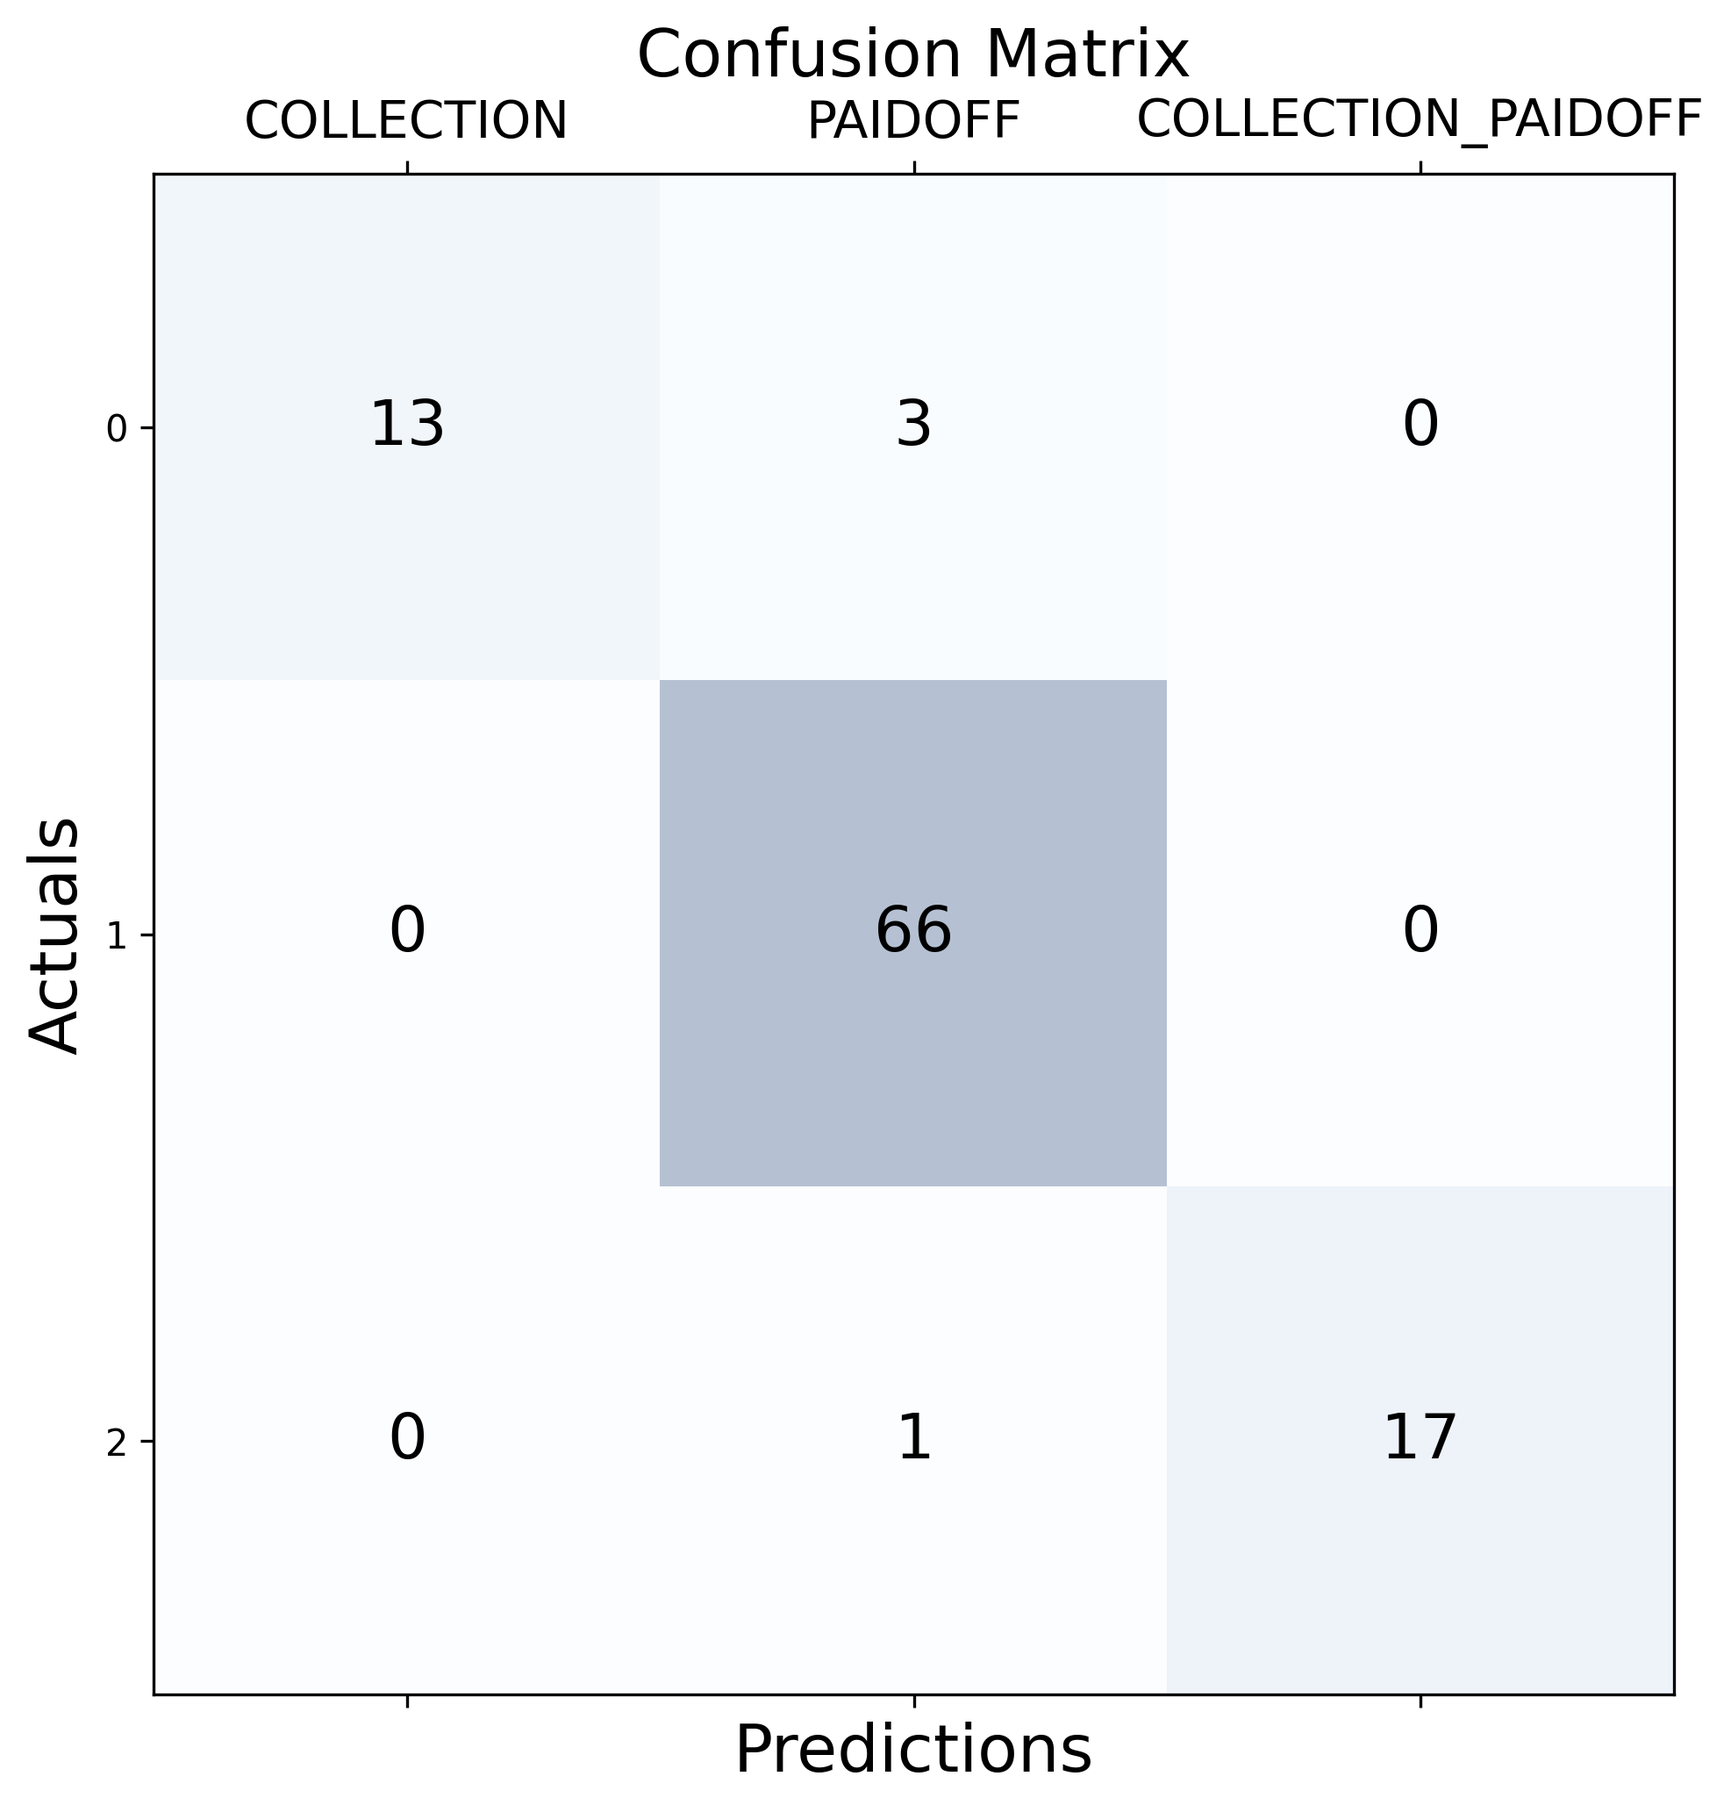
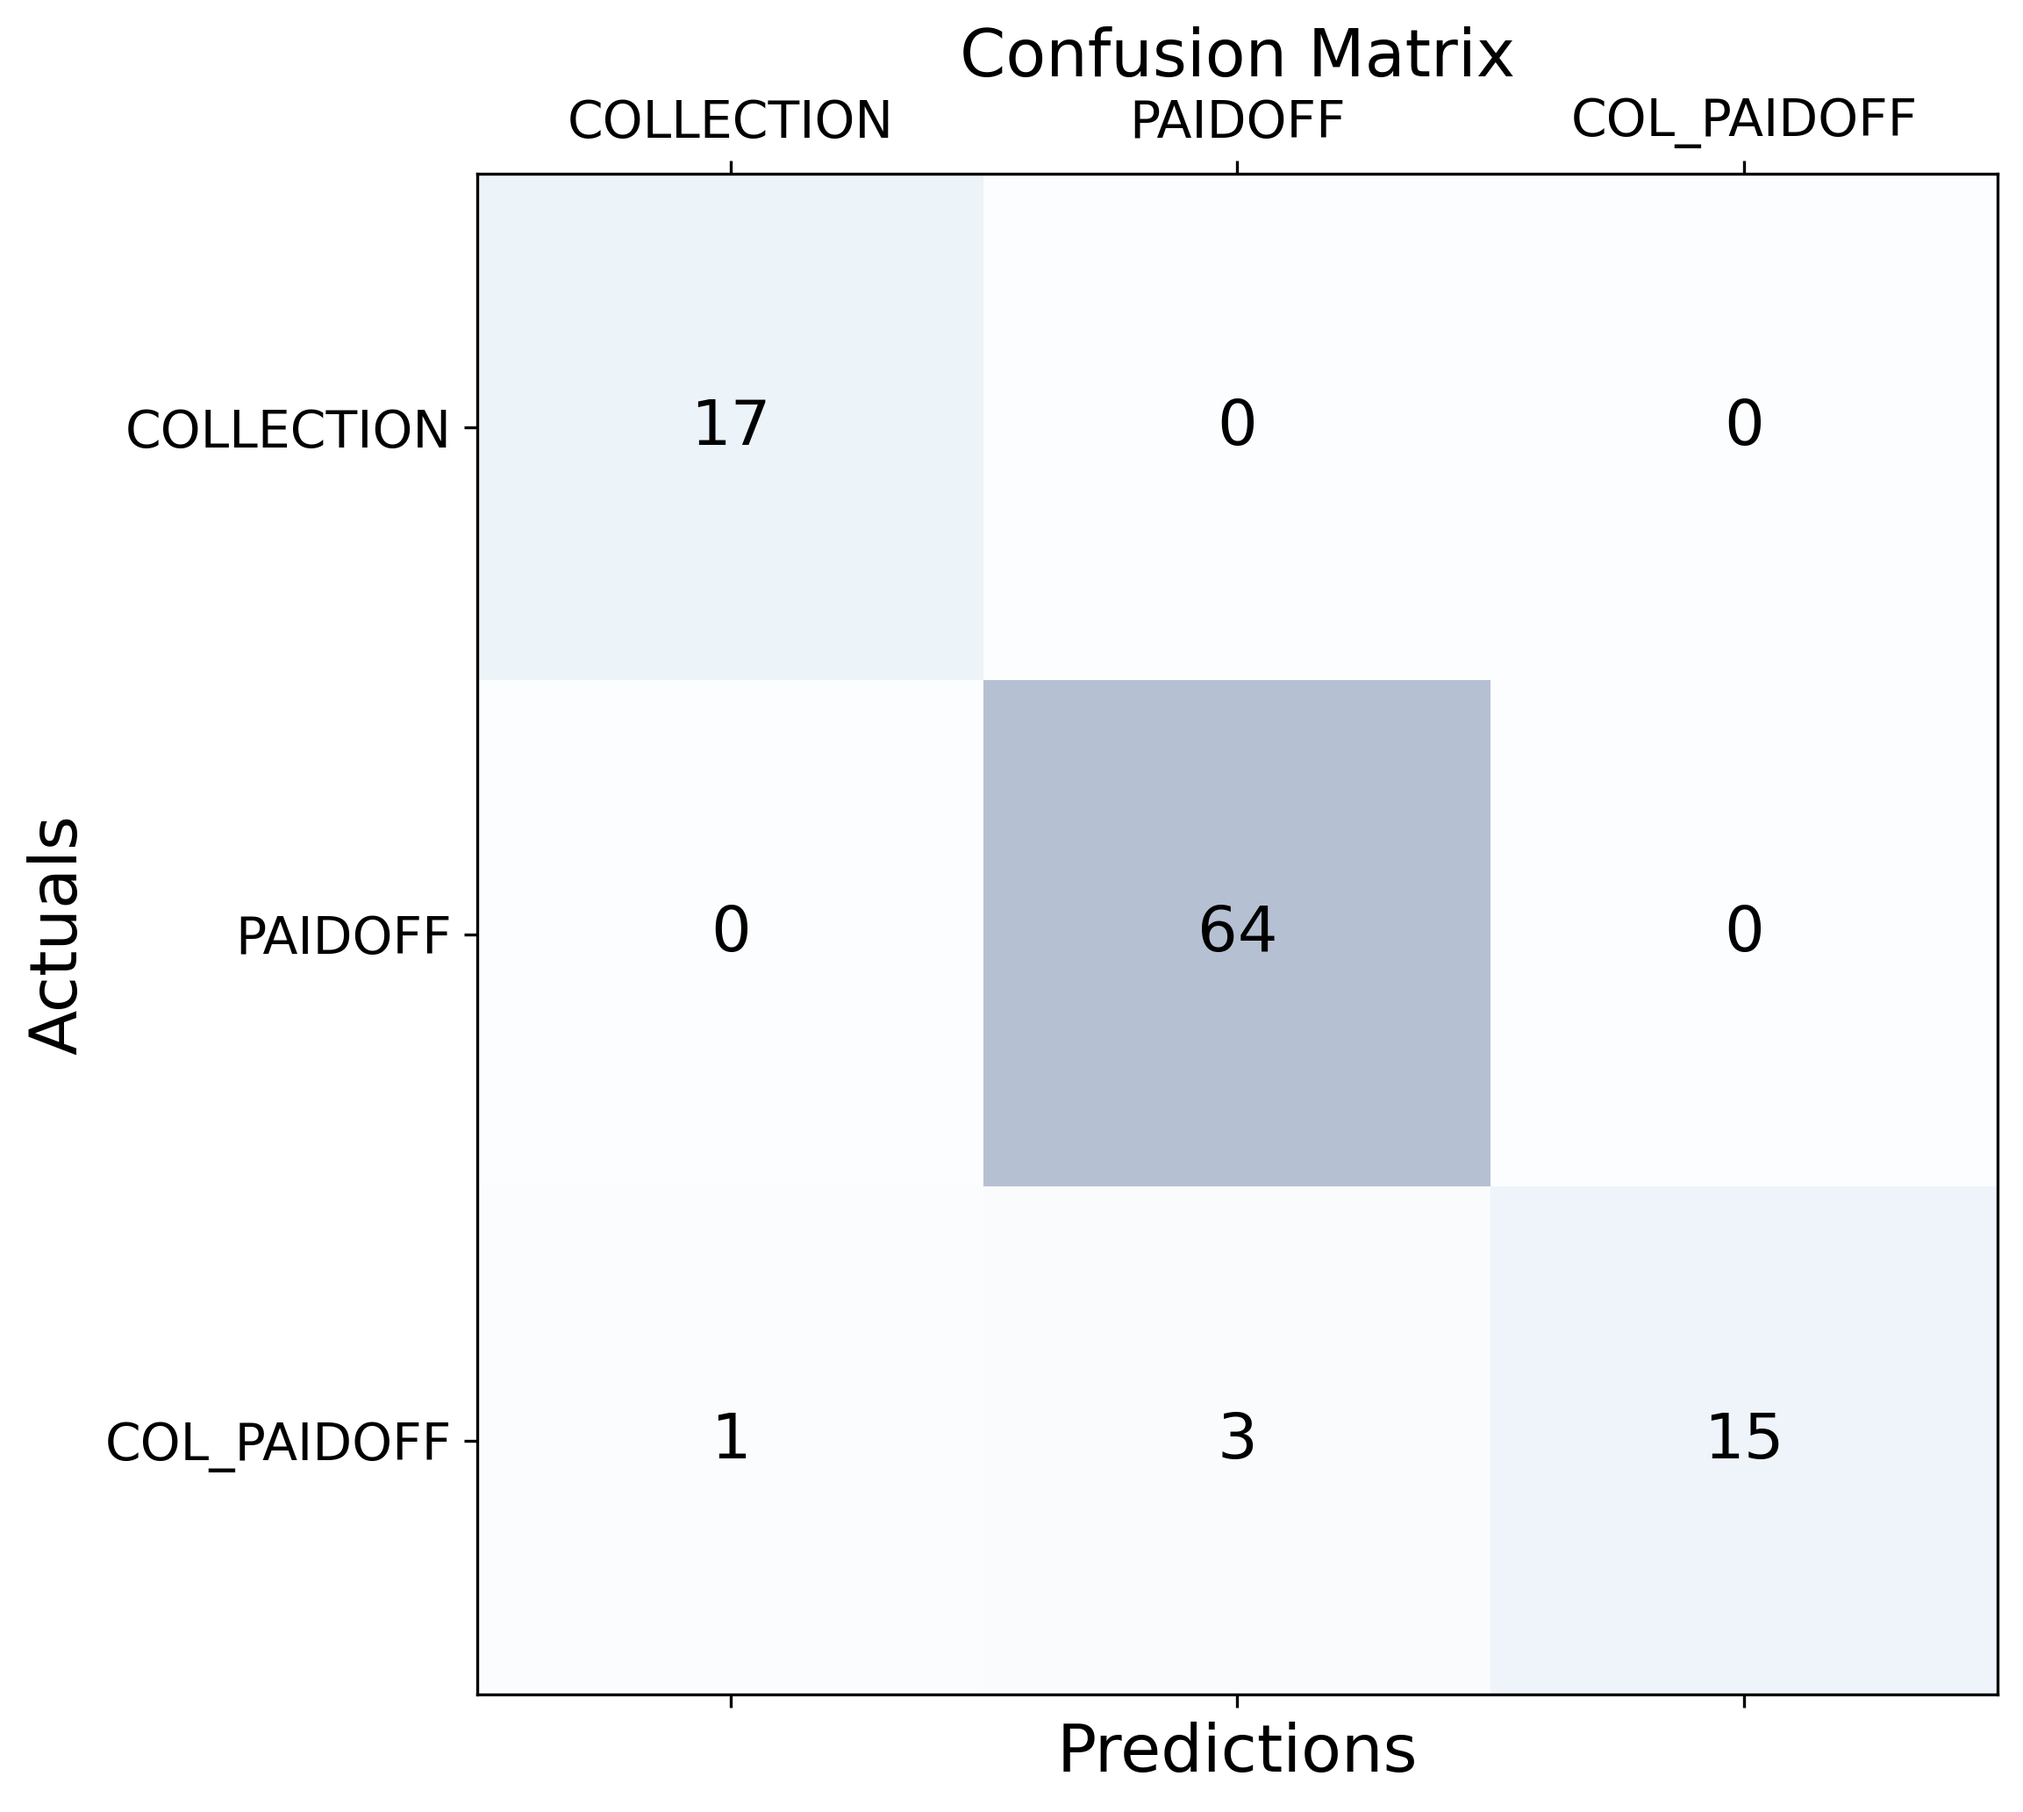
update model's result visualization

diff --git a/src/visualization/visualize.py b/src/visualization/visualize.py
@@ -10,8 +10,18 @@ def visualize_model(y_test, y_pred):
         for j in range(conf_matrix.shape[1]):
             ax.text(x=j, y=i, s=conf_matrix[i, j], va='center', ha='center', size='xx-large')
 
+    plt.title('Confusion Matrix', fontsize=18)
+
+    tick_marks = [0,1,2]
+    class_name = ['COLLECTION', 'PAIDOFF', 'COL_PAIDOFF']
+
+    plt.xticks(ticks=tick_marks, labels=class_name, fontsize=14)
+    plt.yticks(ticks=tick_marks, labels=class_name, fontsize=14)
+
     plt.xlabel('Predictions', fontsize=18)
     plt.ylabel('Actuals', fontsize=18)
-    plt.title('Confusion Matrix', fontsize=18)
-    plt.xticks([0, 1, 2], ['COLLECTION', 'PAIDOFF', 'COLLECTION_PAIDOFF'], fontsize=14)
-    plt.savefig('../../reports/figures/plot.png', dpi=300, bbox_inches='tight')
+
+    plt.savefig('../../reports/figures/plot.png',
+                dpi=300,
+                bbox_inches='tight'
+                )
